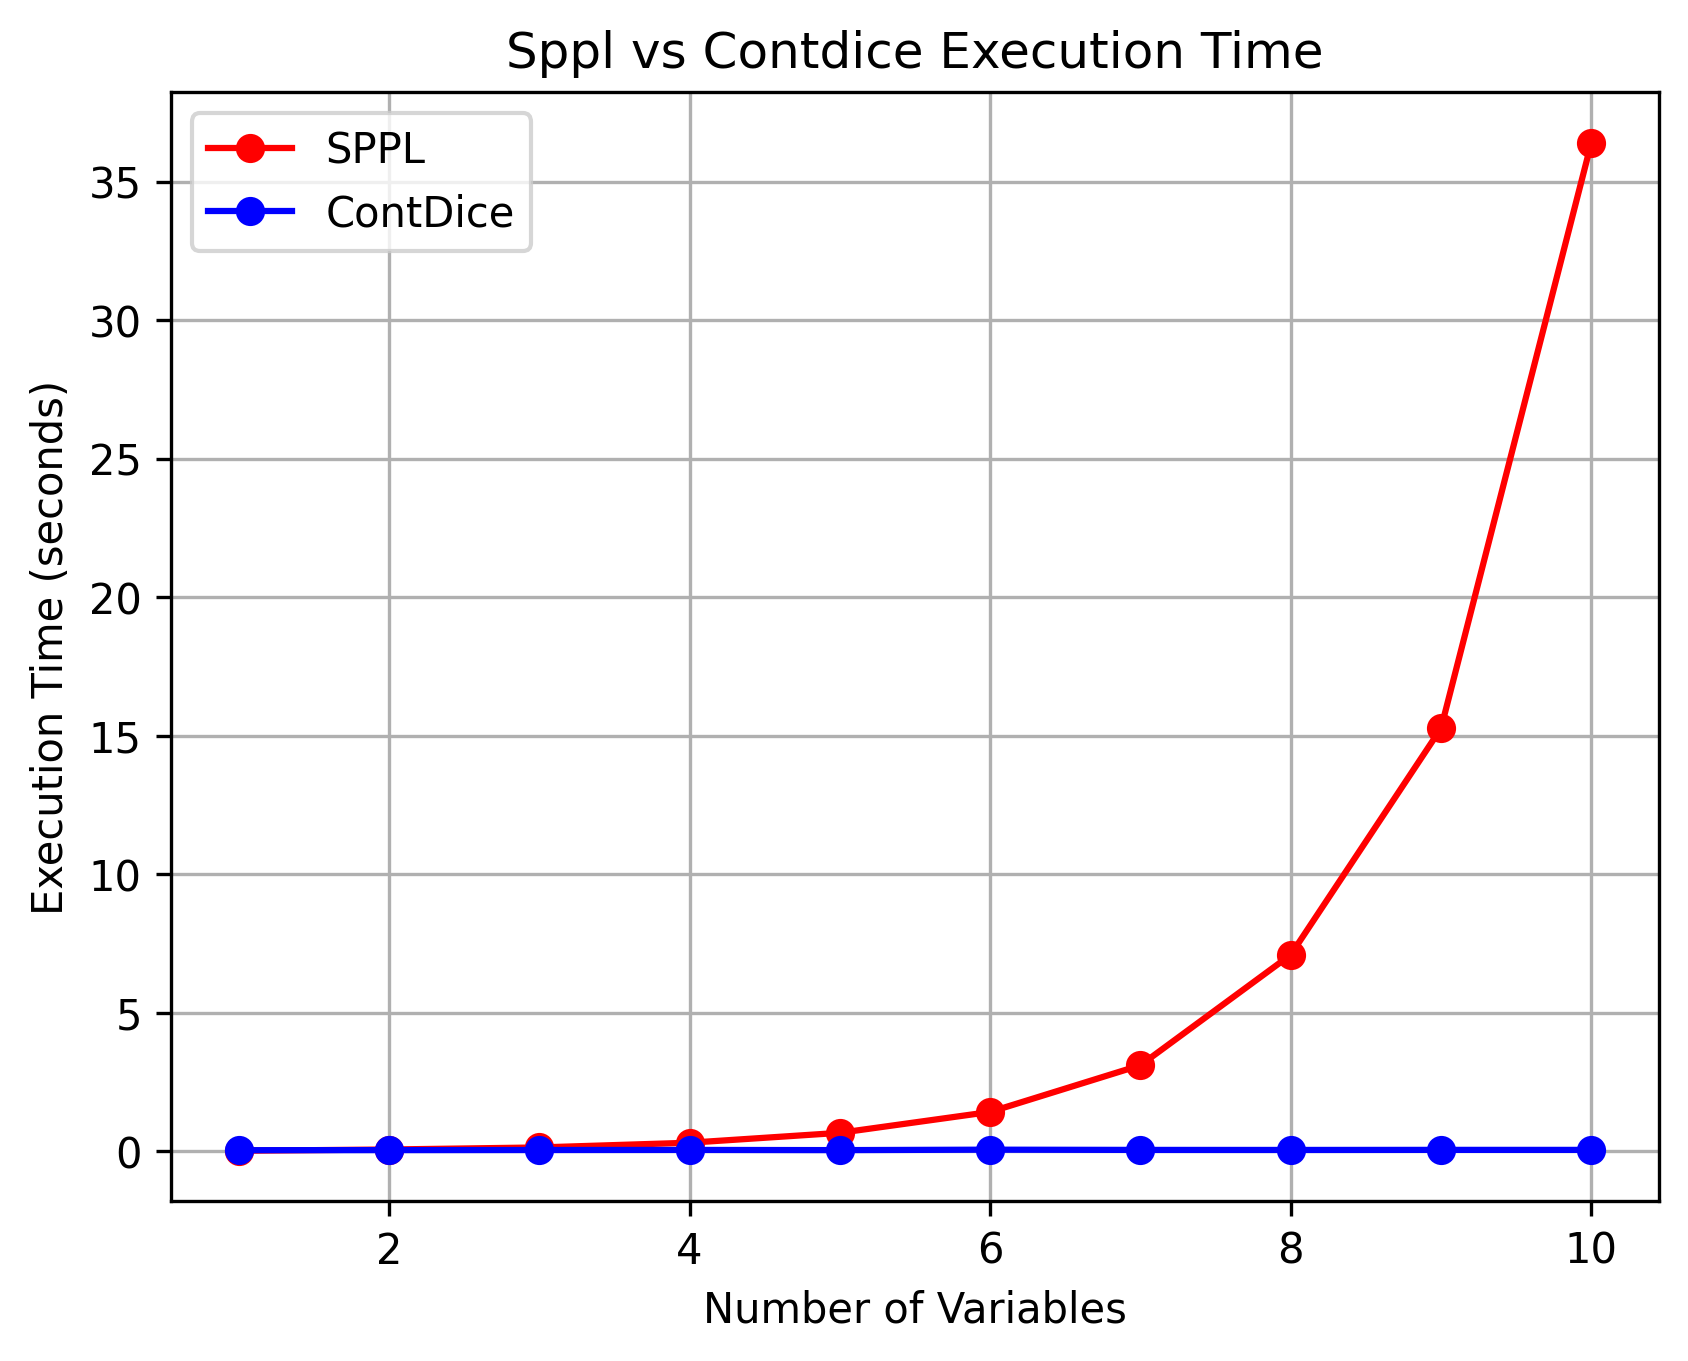
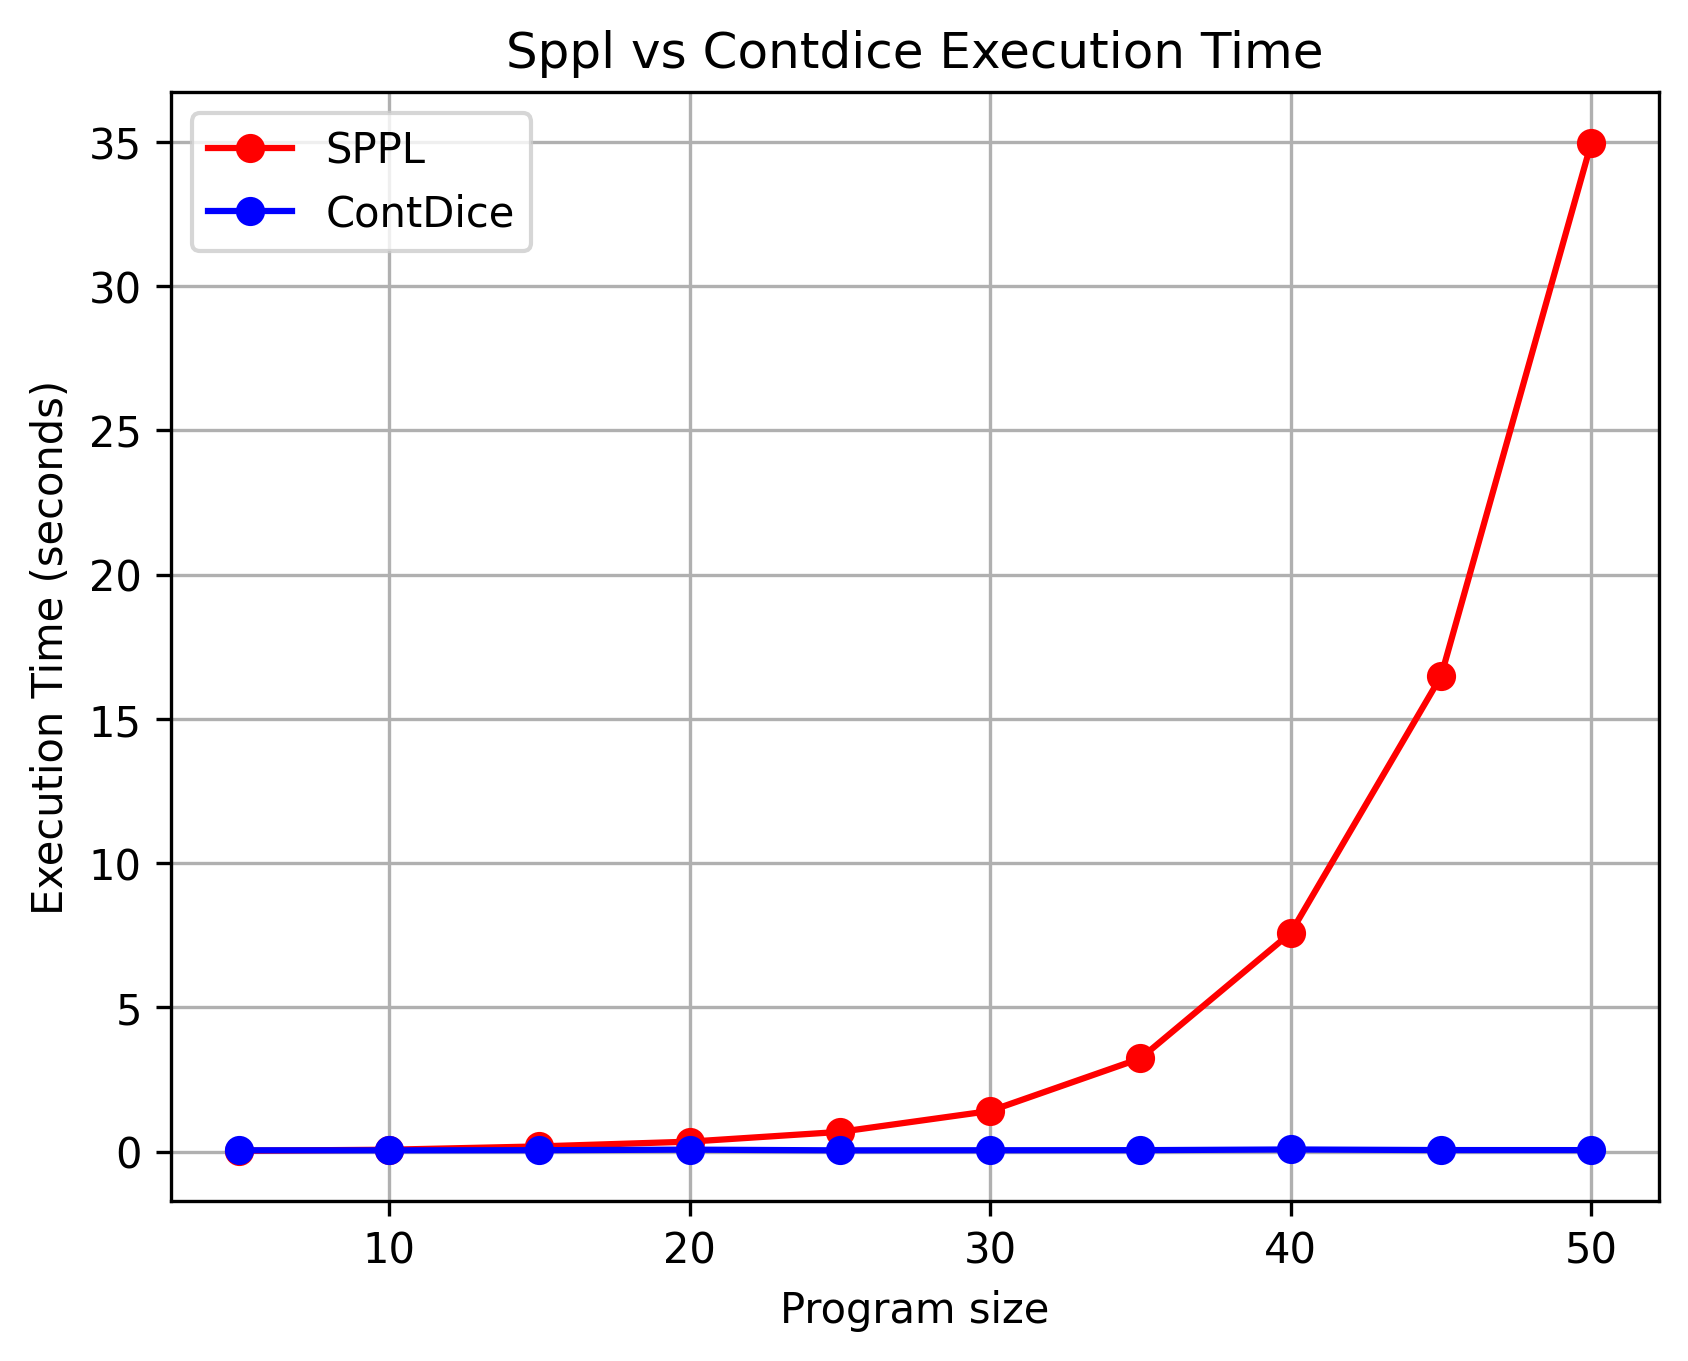
Fix minor x-axis typo for scaling graph

diff --git a/test.py b/test.py
@@ -144,7 +144,7 @@ def test_asymptotic_scaling():
     
     # Generate programs of increasing size, linearly
     for i in range(1, 11):
-        prog_size = i
+        prog_size = i*5
         
         # --- CONTDICE ---
         program_contdice, last_var = build_alternating_guard_contdice(i*5, i)
@@ -249,7 +249,7 @@ def generate_line_graphs(benchmark_results, output_path):
     plt.plot(prog_size, sppl_times, label="SPPL", color="red", marker="o")
     plt.plot(prog_size, contdice_times, label="ContDice", color="blue", marker="o")
 
-    plt.xlabel("Number of Variables")
+    plt.xlabel("Program Size")
     plt.ylabel("Execution Time (seconds)")
     plt.title("Sppl vs Contdice Execution Time")
     plt.legend()
